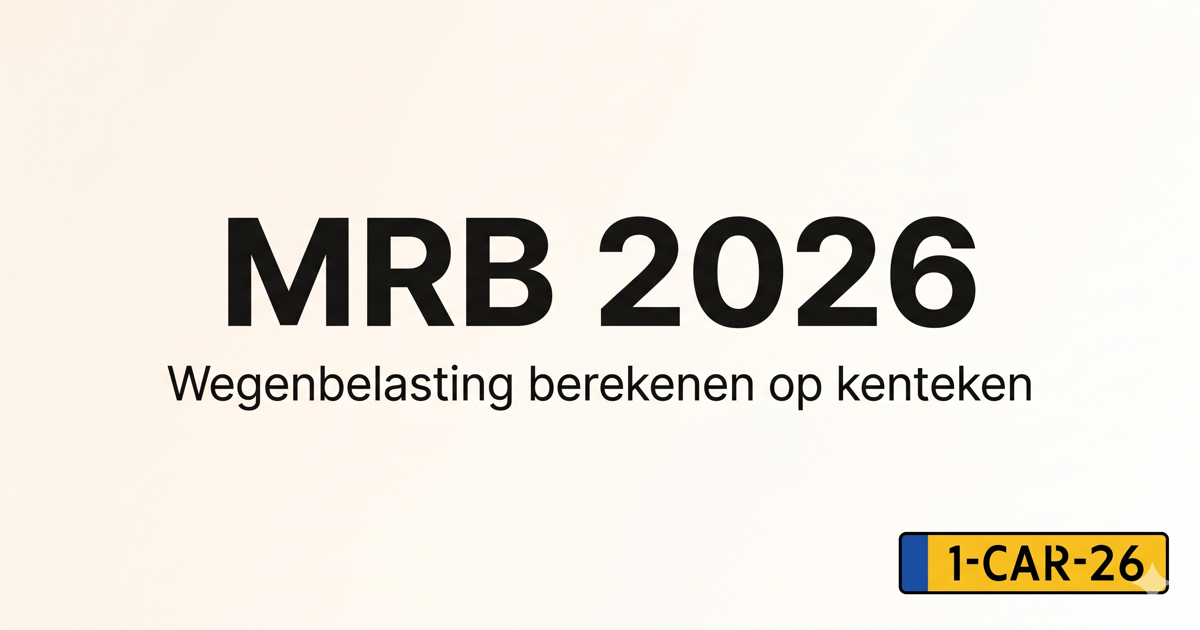
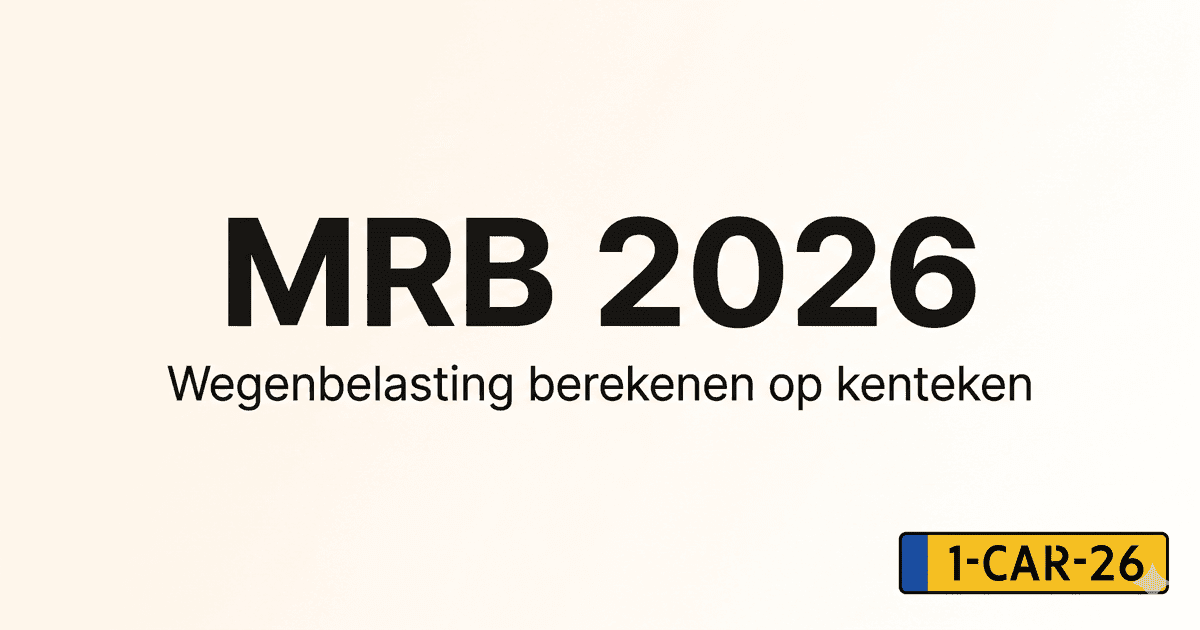
UX cleanup: subtitle, collapsible intro/FAQ, FAQ accuracy fixes, og.png compress
Layout:
- Replace 200-word intro above calculator with one-line subtitle
- Move long-form intro into <details> (collapsed by default, SEO visible)
- Convert FAQ <dl> into <details>/<summary> accordion (all collapsed)
- Pure CSS chevron rotation on open — no JS

FAQ corrections (NL + EN):
- EV/PHEV 2026: add discount phase-out (25% by 2029, 0% by 2030)
- Oldtimer: full accurate rules (40yr exempt year-round; 26-40yr 25%
  rate Oct-Dec excl.; 2028 cutoff for pre-1988 vehicles)
- Overijssel opcenten: 'vrijwel gelijk' / 'almost identical' qualifier

og.png: pngquant 65-85 quality → 82 KB (was 107 KB), still 1200×630

Changed region(s): [[0.7708, 0.9048, 0.9867, 0.9651], [0.7708, 0.8444, 0.8017, 0.9048], [0.8633, 0.8746, 0.8942, 0.9048]]

diff --git a/src/app/i18n.ts b/src/app/i18n.ts
@@ -7,6 +7,8 @@ export interface Translations {
   ogLocale: string;
   ogLocaleAlternate: string;
   canonicalUrl: string;
+  subtitle: string;
+  introTitle: string;
   intro: string;
   faqTitle: string;
   faqs: Array<{ q: string; a: string }>;
@@ -48,6 +50,8 @@ export const TRANSLATIONS: Record<Lang, Translations> = {
       'Met deze calculator bereken je het kwartaaltarief op basis van kenteken. De voertuiggegevens ' +
       '— gewicht en brandstoftype — worden automatisch opgehaald uit de RDW-database. Je kunt het ' +
       'bedrag weergeven per maand, kwartaal of jaar.',
+    subtitle: 'Bereken in seconden hoeveel motorrijtuigenbelasting je betaalt. Voer je kenteken in — wij halen automatisch het gewicht en brandstoftype op via RDW.',
+    introTitle: 'Hoe werkt deze berekening?',
     faqTitle: 'Veelgestelde vragen over wegenbelasting (MRB)',
     faqs: [
       {
@@ -64,18 +68,20 @@ export const TRANSLATIONS: Record<Lang, Translations> = {
       {
         q: 'Wat verandert er in 2026 voor elektrische auto\'s en plug-in hybrides?',
         a: 'Plug-in hybrides (PHEV) verliezen per 1 januari 2026 hun MRB-korting volledig en betalen ' +
-           'hetzelfde tarief als benzineauto\'s. Volledig elektrische voertuigen betalen 70% van het ' +
-           'benzine-tarief. De volledige vrijstelling voor EV\'s is al in 2025 afgelopen.',
+           'hetzelfde tarief als benzineauto\'s. Volledig elektrische voertuigen betalen in 2026 nog 70% ' +
+           'van het benzine-tarief; deze korting wordt afgebouwd tot 25% in 2029 en verdwijnt volledig in 2030.',
       },
       {
         q: 'Welke provincie heeft de laagste opcenten?',
         a: 'Noord-Holland heeft de laagste provinciale opcenten (82,1% in 2026), gevolgd door Overijssel ' +
-           '(82,2%). Zuid-Holland heeft de hoogste opcenten (104,4%), wat resulteert in de hoogste MRB.',
+           'met 82,2%, vrijwel gelijk. Zuid-Holland heeft de hoogste opcenten (104,4%), wat resulteert in de hoogste MRB.',
       },
       {
         q: 'Geldt er een vrijstelling voor oldtimers?',
-        a: 'Ja, voertuigen van 40 jaar of ouder zijn vrijgesteld van MRB. Je kunt dan niet rijden in de ' +
-           'maanden oktober t/m maart, tenzij je een overgangsregeling hebt gekozen bij de Belastingdienst.',
+        a: 'Personenauto\'s van 40 jaar of ouder zijn volledig vrijgesteld van MRB en mogen het hele jaar ' +
+           'rijden. Voor benzine- en LPG-voertuigen tussen 26 en 40 jaar geldt een overgangsregeling: ' +
+           'ongeveer 25% van het normale tarief, mits je niet rijdt in januari, februari en december. ' +
+           'Let op: vanaf 2028 geldt de volledige vrijstelling alleen nog voor voertuigen gebouwd vóór 1988.',
       },
     ],
     searchBtn: 'Zoeken',
@@ -119,6 +125,8 @@ export const TRANSLATIONS: Record<Lang, Translations> = {
       'This calculator determines your quarterly road tax from your licence plate. Vehicle data — ' +
       'weight and fuel type — are fetched automatically from the Dutch RDW registration database. ' +
       'You can view the amount per month, quarter, or year.',
+    subtitle: 'Calculate your Dutch road tax in seconds. Enter your license plate — we\'ll fetch weight and fuel type automatically via RDW.',
+    introTitle: 'How is this calculated?',
     faqTitle: 'Frequently asked questions about Dutch road tax (MRB)',
     faqs: [
       {
@@ -135,19 +143,20 @@ export const TRANSLATIONS: Record<Lang, Translations> = {
       {
         q: 'What changes in 2026 for EVs and plug-in hybrids?',
         a: 'Plug-in hybrids (PHEVs) lose their MRB discount entirely from 1 January 2026 and pay ' +
-           'the same rate as petrol vehicles. Fully electric vehicles pay 70% of the petrol rate. ' +
-           'The full EV exemption already ended in 2025.',
+           'the same rate as petrol cars. Fully electric vehicles still pay 70% of the petrol rate in ' +
+           '2026; this discount is reduced to 25% in 2029 and disappears entirely in 2030.',
       },
       {
         q: 'Which province has the lowest opcenten?',
         a: 'Noord-Holland has the lowest provincial surcharge (82.1% in 2026), followed by Overijssel ' +
-           '(82.2%). Zuid-Holland has the highest surcharge (104.4%), resulting in the highest road tax.',
+           'at 82.2%, almost identical. Zuid-Holland has the highest surcharge (104.4%), resulting in the highest road tax.',
       },
       {
         q: 'Is there an exemption for classic cars?',
-        a: 'Yes, vehicles 40 years or older are exempt from MRB in the Netherlands. However, you ' +
-           'cannot drive during October through March unless you have opted for the transitional ' +
-           'arrangement with the Belastingdienst.',
+        a: 'Passenger cars 40 years or older are fully exempt from MRB and may drive year-round. ' +
+           'For petrol and LPG vehicles between 26 and 40 years old, a transitional scheme applies: ' +
+           'roughly 25% of the standard rate, provided you don\'t drive in January, February, or December. ' +
+           'Note: from 2028, the full exemption applies only to vehicles built before 1988.',
       },
     ],
     searchBtn: 'Search',

diff --git a/src/app/car-tax-form/car-tax-form.component.scss b/src/app/car-tax-form/car-tax-form.component.scss
@@ -338,44 +338,105 @@ mat-slider {
   color: #3f51b5;
 }
 
-// ── Intro section ─────────────────────────────────────────
-.intro-section p {
+// ── Subtitle ──────────────────────────────────────────────
+.page-subtitle {
   font-size: 0.88rem;
-  line-height: 1.6;
-  color: rgba(0,0,0,0.65);
-  margin: 0 0 10px;
+  line-height: 1.5;
+  color: rgba(0,0,0,0.55);
+  margin: -16px 0 20px;
 }
 
-// ── FAQ section ───────────────────────────────────────────
-.faq-section {
-  margin-top: 32px;
+// ── Collapsible intro ─────────────────────────────────────
+.intro-details {
+  margin: 16px 0 0;
   border-top: 1px solid #e0e0e0;
-  padding-top: 24px;
+  padding-top: 12px;
 
-  h2 {
-    font-size: 1rem;
+  summary {
+    font-size: 0.82rem;
     font-weight: 600;
-    color: #1a237e;
-    margin: 0 0 16px;
+    color: #3f51b5;
+    cursor: pointer;
+    list-style: none;
+    display: flex;
+    align-items: center;
+    gap: 4px;
+    user-select: none;
+
+    &::after {
+      content: '▾';
+      font-size: 0.9rem;
+      transition: transform 0.2s;
+    }
+
+    &::-webkit-details-marker { display: none; }
   }
 
-  dl { margin: 0; }
+  &[open] summary::after { transform: rotate(-180deg); }
 
-  .faq-item {
-    margin-bottom: 16px;
+  .intro-body {
+    padding-top: 10px;
 
-    dt {
-      font-size: 0.88rem;
-      font-weight: 600;
-      color: rgba(0,0,0,0.75);
-      margin-bottom: 4px;
-    }
-
-    dd {
-      margin: 0;
+    p {
       font-size: 0.85rem;
-      line-height: 1.55;
+      line-height: 1.6;
       color: rgba(0,0,0,0.6);
+      margin: 0 0 10px;
+      &:last-child { margin-bottom: 0; }
     }
+  }
+}
+
+// ── FAQ accordion ─────────────────────────────────────────
+.faq-section {
+  margin-top: 24px;
+  border-top: 1px solid #e0e0e0;
+  padding-top: 20px;
+
+  h2 {
+    font-size: 0.9rem;
+    font-weight: 600;
+    color: #1a237e;
+    margin: 0 0 12px;
+  }
+}
+
+.faq-item {
+  border-bottom: 1px solid #f0f0f0;
+
+  summary {
+    font-size: 0.85rem;
+    font-weight: 600;
+    color: rgba(0,0,0,0.75);
+    cursor: pointer;
+    list-style: none;
+    padding: 12px 20px 12px 0;
+    position: relative;
+    user-select: none;
+
+    &::after {
+      content: '▾';
+      position: absolute;
+      right: 0;
+      top: 50%;
+      transform: translateY(-50%);
+      font-size: 0.85rem;
+      color: rgba(0,0,0,0.4);
+      transition: transform 0.2s;
+    }
+
+    &::-webkit-details-marker { display: none; }
+  }
+
+  &[open] summary::after {
+    transform: translateY(-50%) rotate(-180deg);
+  }
+
+  p {
+    font-size: 0.82rem;
+    line-height: 1.55;
+    color: rgba(0,0,0,0.6);
+    margin: 0 0 12px;
+    padding-right: 20px;
   }
 }

diff --git a/src/app/car-tax-form/car-tax-form.component.html b/src/app/car-tax-form/car-tax-form.component.html
@@ -7,16 +7,12 @@
     <a class="language-btn" [class.active]="i18n.lang === 'en'" routerLink="/en" aria-label="English">EN</a>
   </div>
 
-  <!-- Page title (h1 for SEO — styled small via CSS) -->
+  <!-- Page title + subtitle -->
   <div class="page-title">
     <i class="fas fa-car" aria-hidden="true"></i>
     <h1>{{ i18n.tr.h1 }}</h1>
   </div>
-
-  <!-- Intro paragraph -->
-  <div class="intro-section" *ngFor="let para of i18n.tr.intro.split('\n\n')">
-    <p>{{ para }}</p>
-  </div>
+  <p class="page-subtitle">{{ i18n.tr.subtitle }}</p>
 
   <!-- Plate lookup -->
   <div class="plate-section">
@@ -26,7 +22,7 @@
         <input
           class="plate-input"
           [(ngModel)]="plateInput"
-          [placeholder]="'AA-123-B'"
+          placeholder="AA-123-B"
           (keyup.enter)="searchVehicle()"
           maxlength="9"
           autocomplete="off"
@@ -61,7 +57,7 @@
           {{ getVehicleYear(vehicleInfo) }}<ng-container *ngIf="detectedFuelType"> · {{ getFuelLabel(detectedFuelType) }}</ng-container><ng-container *ngIf="detectedWeight"> · {{ detectedWeight }} kg</ng-container> · {{ getColorName(vehicleInfo.eerste_kleur) }}
         </div>
       </div>
-      <button class="clear-vehicle-btn" (click)="clearVehicle()" [title]="'Clear'">
+      <button class="clear-vehicle-btn" (click)="clearVehicle()" title="Clear">
         <mat-icon>close</mat-icon>
       </button>
     </div>
@@ -121,15 +117,21 @@
 
   </div>
 
-  <!-- FAQ section -->
+  <!-- Collapsible long-form intro (SEO content, hidden by default) -->
+  <details class="intro-details">
+    <summary>{{ i18n.tr.introTitle }}</summary>
+    <div class="intro-body">
+      <p *ngFor="let para of i18n.tr.intro.split('\n\n')">{{ para }}</p>
+    </div>
+  </details>
+
+  <!-- FAQ accordion (SEO content, all collapsed by default) -->
   <section class="faq-section" aria-labelledby="faq-heading">
     <h2 id="faq-heading">{{ i18n.tr.faqTitle }}</h2>
-    <dl>
-      <div class="faq-item" *ngFor="let faq of i18n.tr.faqs">
-        <dt>{{ faq.q }}</dt>
-        <dd>{{ faq.a }}</dd>
-      </div>
-    </dl>
+    <details class="faq-item" *ngFor="let faq of i18n.tr.faqs">
+      <summary>{{ faq.q }}</summary>
+      <p>{{ faq.a }}</p>
+    </details>
   </section>
 
 </div>
